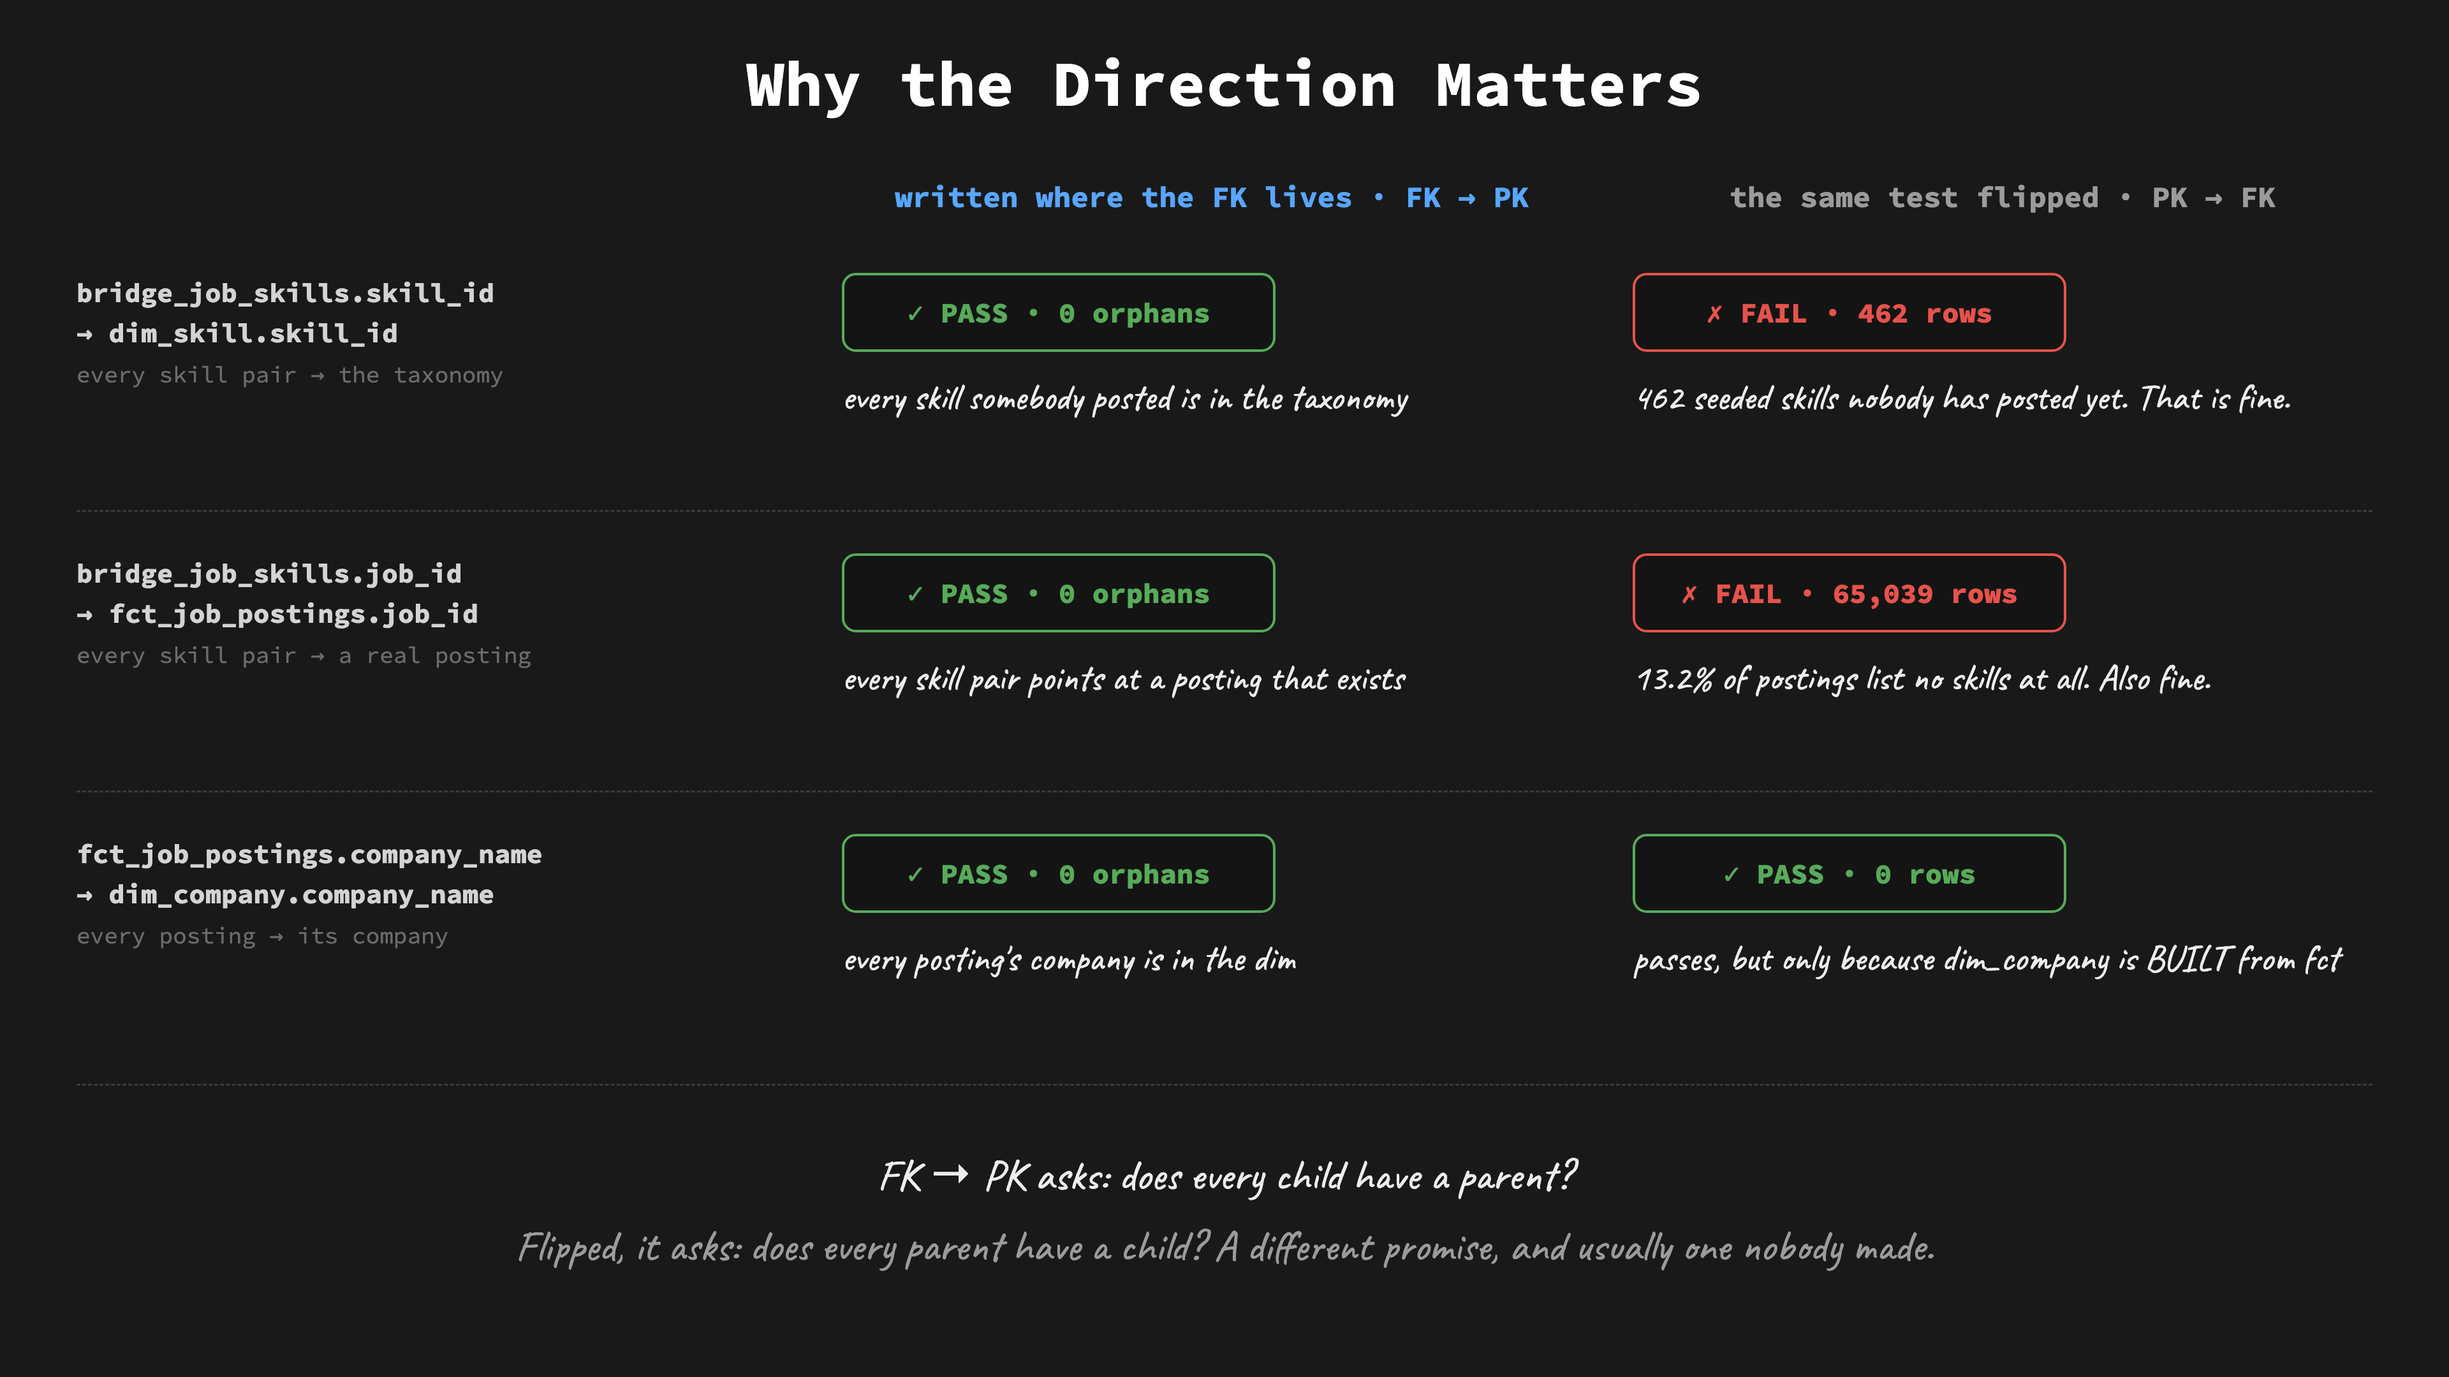
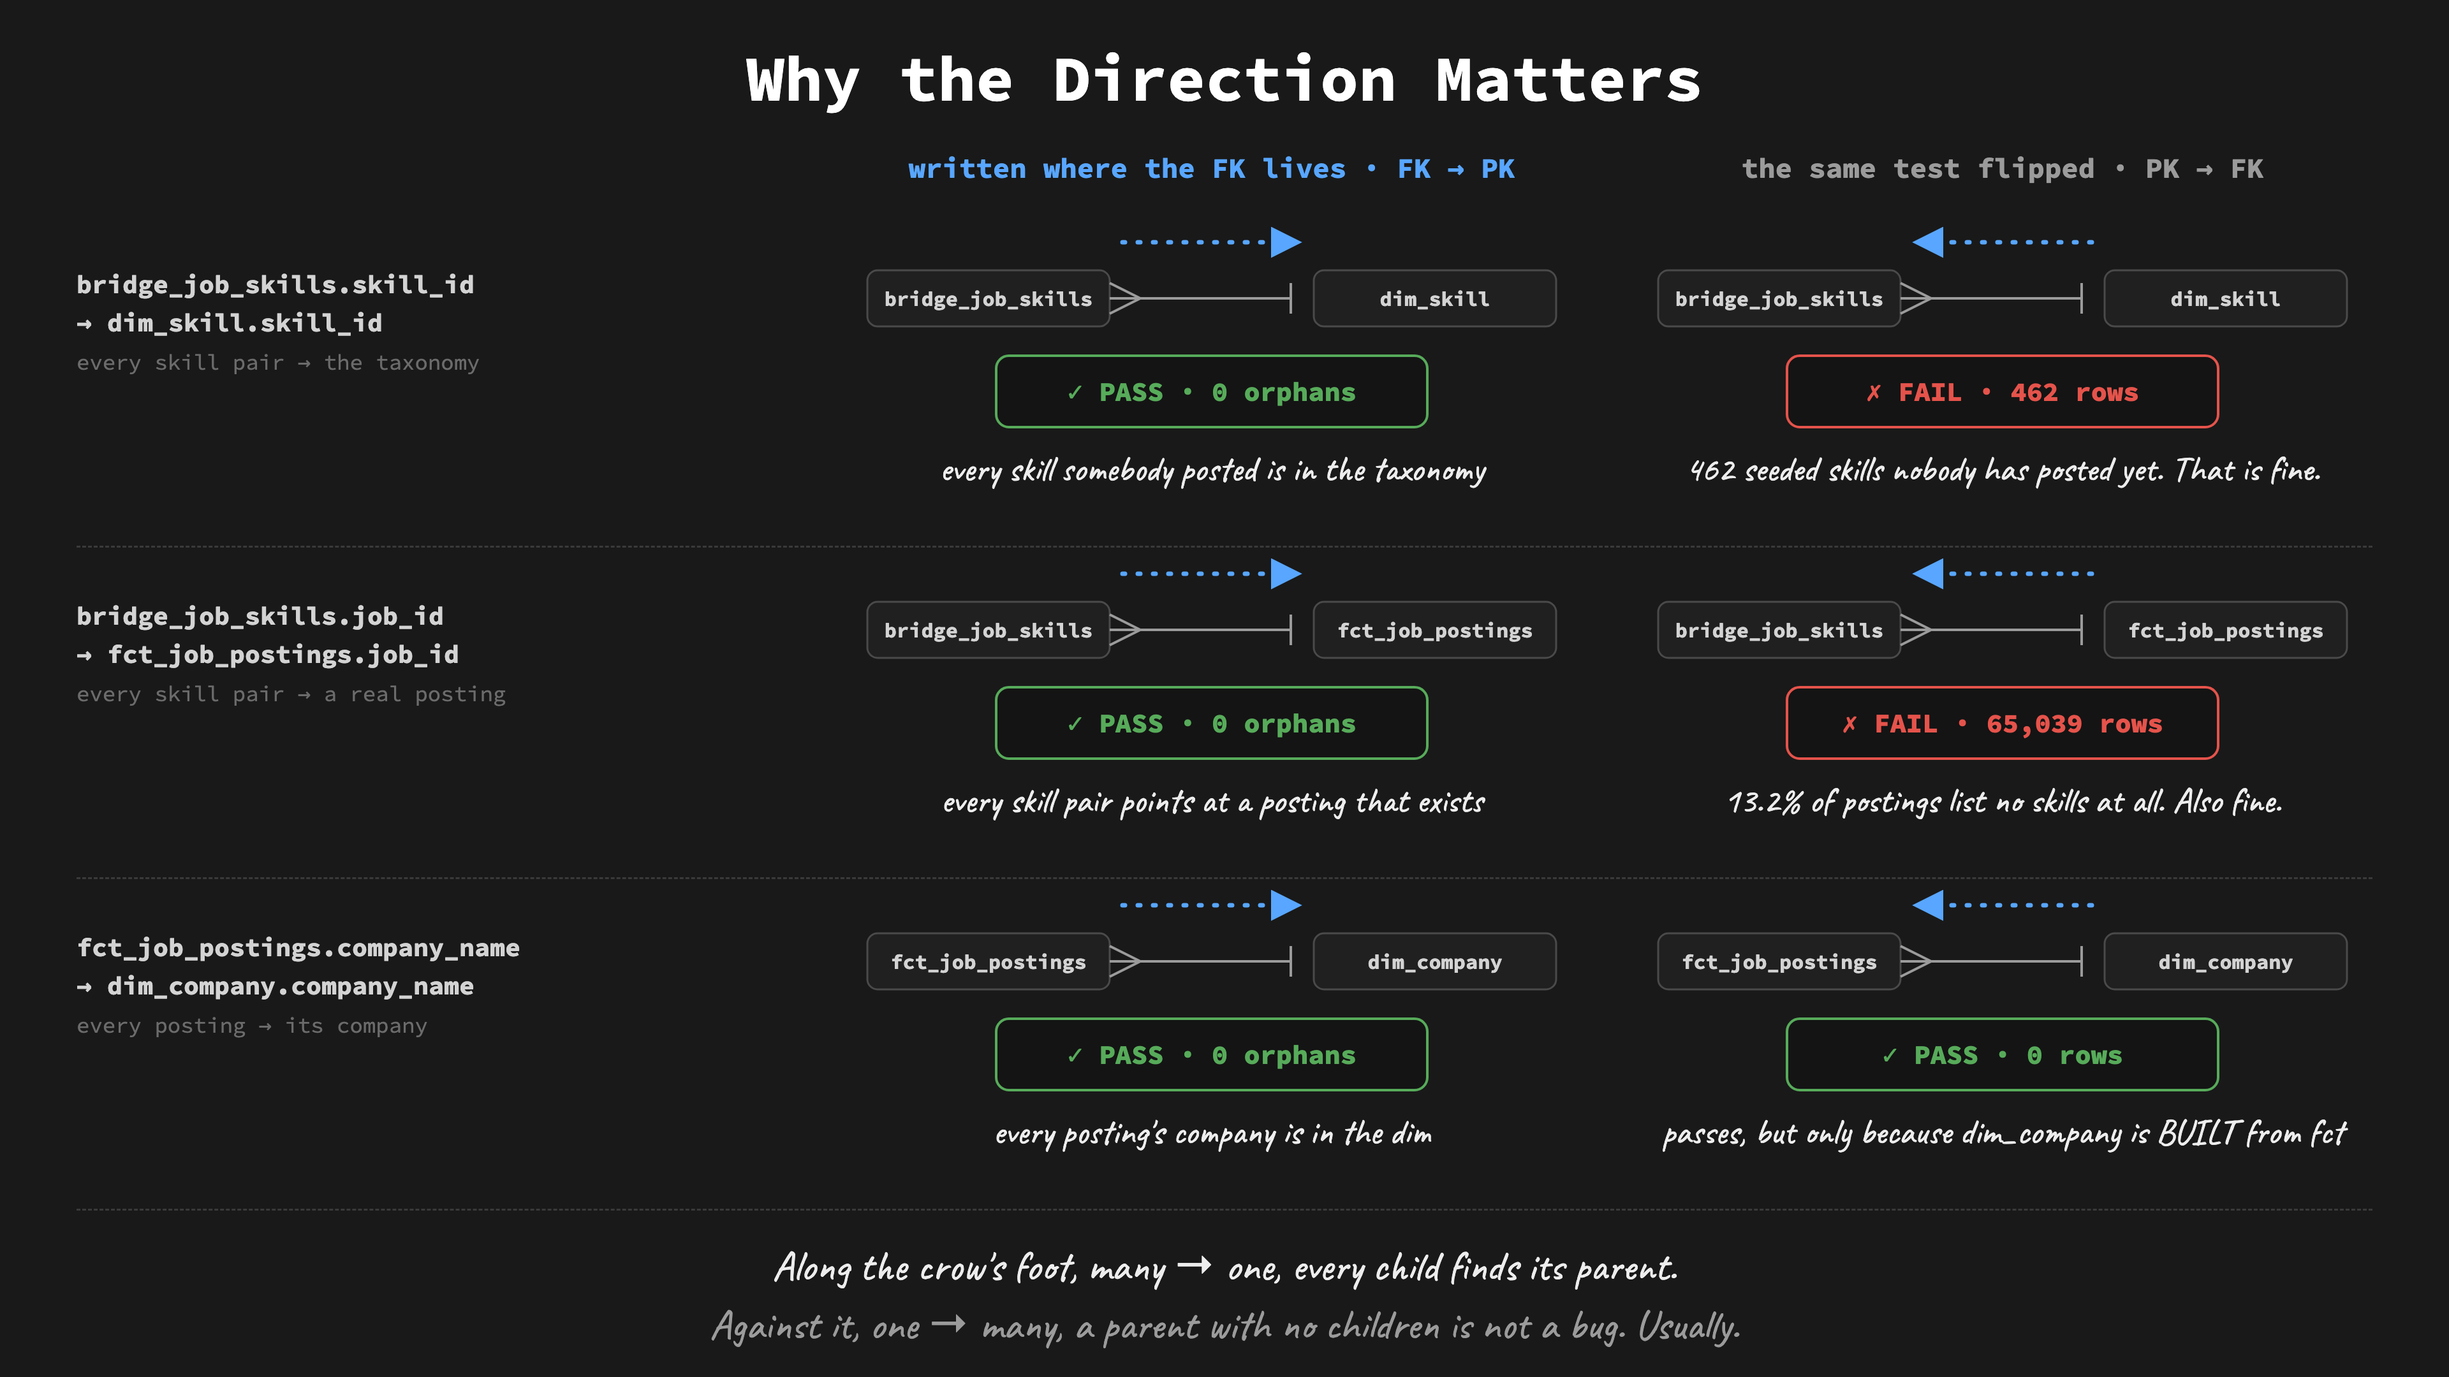
3.09_relationships_direction v2: mini ERDs with crow's feet and the test arrow (Luke)
Each cell now shows the two tables joined by a crow's-foot line (many on
the FK side, bar on the PK side) with a blue arrow above it: along the
crow's foot on the left, against it on the right. Same relationship,
arrow reversed, is the whole point.

diff --git a/resources/diagrams/3.09_relationships_direction.html b/resources/diagrams/3.09_relationships_direction.html
@@ -15,54 +15,51 @@
   }
   html,body{margin:0;padding:0;background:var(--bg)}
   .stage{position:relative;width:1920px;height:1080px;overflow:hidden;font-family:var(--hand);color:var(--ink);background:var(--bg)}
-  .title{position:absolute;top:34px;left:0;width:1920px;font-family:var(--mono);font-size:50px;font-weight:700;color:#FFFFFF;text-align:center}
-  .colh{position:absolute;top:140px;font-family:var(--mono);font-size:23px;font-weight:700;text-align:center}
-  .pair{position:absolute;font-family:var(--mono);font-size:21px;font-weight:700;color:var(--text);line-height:1.5}
-  .pair .sub{font-weight:400;color:var(--faint);font-size:18px}
-  .chip{position:absolute;box-sizing:border-box;height:62px;width:340px;border-radius:11px;background:#141414;display:flex;align-items:center;justify-content:center;font-family:var(--mono);font-size:22px;font-weight:800}
-  .why{position:absolute;font-family:var(--hand);font-size:29px;color:var(--ink);line-height:1.35}
+  .title{position:absolute;top:30px;left:0;width:1920px;font-family:var(--mono);font-size:50px;font-weight:700;color:#FFFFFF;text-align:center}
+  .colh{position:absolute;top:118px;font-family:var(--mono);font-size:22px;font-weight:700;text-align:center}
+  .pair{position:absolute;font-family:var(--mono);font-size:20px;font-weight:700;color:var(--text);line-height:1.5}
+  .pair .sub{font-weight:400;color:var(--faint);font-size:17px}
+  .chip{position:absolute;box-sizing:border-box;height:58px;width:340px;border-radius:11px;background:#141414;display:flex;align-items:center;justify-content:center;font-family:var(--mono);font-size:21px;font-weight:800}
+  .why{position:absolute;font-family:var(--hand);font-size:28px;color:var(--ink);line-height:1.3;text-align:center}
   .sep{position:absolute;left:60px;width:1800px;border-top:1.5px dashed #3a3a3a}
-  .rule{position:absolute;left:0;width:1920px;text-align:center;font-family:var(--hand);font-size:34px;color:var(--ink)}
+  .rule{position:absolute;left:0;width:1920px;text-align:center;font-family:var(--hand);font-size:33px;color:var(--ink)}
+  svg.art{position:absolute;inset:0;pointer-events:none}
 </style>
 </head>
 <body>
 <div class="stage">
-
   <div class="title">Why the Direction Matters</div>
-
   <div class="colh" style="left:660px;width:580px;color:var(--blue)">written where the FK lives  ·  FK → PK</div>
   <div class="colh" style="left:1280px;width:580px;color:var(--muted)">the same test flipped  ·  PK → FK</div>
-
-  <!-- row 1: skills -->
-  <div class="pair" style="left:60px;top:214px;width:560px">bridge_job_skills.skill_id<br>→ dim_skill.skill_id<br><span class="sub">every skill pair → the taxonomy</span></div>
-  <div class="chip" style="left:660px;top:214px;border:2px solid var(--ok);color:var(--ok)">✓ PASS · 0 orphans</div>
-  <div class="why" style="left:660px;top:292px;width:580px">every skill somebody posted is in the taxonomy</div>
-  <div class="chip" style="left:1280px;top:214px;border:2px solid var(--err);color:var(--err)">✗ FAIL · 462 rows</div>
-  <div class="why" style="left:1280px;top:292px;width:580px">462 seeded skills nobody has posted yet. That is fine.</div>
-
-  <div class="sep" style="top:400px"></div>
-
-  <!-- row 2: jobs -->
-  <div class="pair" style="left:60px;top:434px;width:560px">bridge_job_skills.job_id<br>→ fct_job_postings.job_id<br><span class="sub">every skill pair → a real posting</span></div>
-  <div class="chip" style="left:660px;top:434px;border:2px solid var(--ok);color:var(--ok)">✓ PASS · 0 orphans</div>
-  <div class="why" style="left:660px;top:512px;width:580px">every skill pair points at a posting that exists</div>
-  <div class="chip" style="left:1280px;top:434px;border:2px solid var(--err);color:var(--err)">✗ FAIL · 65,039 rows</div>
-  <div class="why" style="left:1280px;top:512px;width:580px">13.2% of postings list no skills at all. Also fine.</div>
-
-  <div class="sep" style="top:620px"></div>
-
-  <!-- row 3: companies -->
-  <div class="pair" style="left:60px;top:654px;width:560px">fct_job_postings.company_name<br>→ dim_company.company_name<br><span class="sub">every posting → its company</span></div>
-  <div class="chip" style="left:660px;top:654px;border:2px solid var(--ok);color:var(--ok)">✓ PASS · 0 orphans</div>
-  <div class="why" style="left:660px;top:732px;width:580px">every posting's company is in the dim</div>
-  <div class="chip" style="left:1280px;top:654px;border:2px solid var(--ok);color:var(--ok)">✓ PASS · 0 rows</div>
-  <div class="why" style="left:1280px;top:732px;width:580px">passes, but only because dim_company is BUILT from fct</div>
-
-  <div class="sep" style="top:850px"></div>
-
-  <div class="rule" style="top:900px">FK → PK asks: does every child have a parent?</div>
-  <div class="rule" style="top:956px;color:var(--muted)">Flipped, it asks: does every parent have a child? A different promise, and usually one nobody made.</div>
-
+  <div class="pair" style="left:60px;top:208px;width:560px">bridge_job_skills.skill_id<br>→ dim_skill.skill_id<br><span class="sub">every skill pair → the taxonomy</span></div>
+<div class="chip" style="left:780px;top:278px;border:2px solid var(--ok);color:var(--ok)">✓ PASS · 0 orphans</div>
+<div class="why" style="left:660px;top:350px;width:580px">every skill somebody posted is in the taxonomy</div>
+<div class="chip" style="left:1400px;top:278px;border:2px solid var(--err);color:var(--err)">✗ FAIL · 462 rows</div>
+<div class="why" style="left:1280px;top:350px;width:580px">462 seeded skills nobody has posted yet. That is fine.</div>
+<div class="sep" style="top:428px"></div>
+<div class="pair" style="left:60px;top:468px;width:560px">bridge_job_skills.job_id<br>→ fct_job_postings.job_id<br><span class="sub">every skill pair → a real posting</span></div>
+<div class="chip" style="left:780px;top:538px;border:2px solid var(--ok);color:var(--ok)">✓ PASS · 0 orphans</div>
+<div class="why" style="left:660px;top:610px;width:580px">every skill pair points at a posting that exists</div>
+<div class="chip" style="left:1400px;top:538px;border:2px solid var(--err);color:var(--err)">✗ FAIL · 65,039 rows</div>
+<div class="why" style="left:1280px;top:610px;width:580px">13.2% of postings list no skills at all. Also fine.</div>
+<div class="sep" style="top:688px"></div>
+<div class="pair" style="left:60px;top:728px;width:560px">fct_job_postings.company_name<br>→ dim_company.company_name<br><span class="sub">every posting → its company</span></div>
+<div class="chip" style="left:780px;top:798px;border:2px solid var(--ok);color:var(--ok)">✓ PASS · 0 orphans</div>
+<div class="why" style="left:660px;top:870px;width:580px">every posting's company is in the dim</div>
+<div class="chip" style="left:1400px;top:798px;border:2px solid var(--ok);color:var(--ok)">✓ PASS · 0 rows</div>
+<div class="why" style="left:1280px;top:870px;width:580px">passes, but only because dim_company is BUILT from fct</div>
+  <div class="sep" style="top:948px"></div>
+  <div class="rule" style="top:972px">Along the crow's foot, many → one, every child finds its parent.</div>
+  <div class="rule" style="top:1018px;color:var(--muted)">Against it, one → many, a parent with no children is not a bug. Usually.</div>
+  <svg class="art" viewBox="0 0 1920 1080">
+    <defs><marker id="ab" viewBox="0 0 10 10" refX="8" refY="5" markerWidth="7" markerHeight="7" orient="auto-start-reverse"><path d="M 0 0 L 10 5 L 0 10 z" fill="#58A6FF"/></marker></defs>
+    <rect x="680" y="212" width="190" height="44" rx="8" fill="#202020" stroke="#4a4a4a" stroke-width="1.5"/><text x="775.0" y="240" text-anchor="middle" font-family="Source Code Pro,monospace" font-size="16" font-weight="700" fill="#D3D3D3">bridge_job_skills</text><rect x="1030" y="212" width="190" height="44" rx="8" fill="#202020" stroke="#4a4a4a" stroke-width="1.5"/><text x="1125.0" y="240" text-anchor="middle" font-family="Source Code Pro,monospace" font-size="16" font-weight="700" fill="#D3D3D3">dim_skill</text><line x1="894" y1="234" x2="1012" y2="234" stroke="#9B9B9B" stroke-width="2"/><line x1="894" y1="234" x2="870" y2="222" stroke="#9B9B9B" stroke-width="2"/><line x1="894" y1="234" x2="870" y2="234" stroke="#9B9B9B" stroke-width="2"/><line x1="894" y1="234" x2="870" y2="246" stroke="#9B9B9B" stroke-width="2"/><line x1="1012" y1="222" x2="1012" y2="246" stroke="#9B9B9B" stroke-width="2"/><line x1="880" y1="190" x2="1016" y2="190" stroke="#58A6FF" stroke-width="3.5" stroke-dasharray="2 10" stroke-linecap="round" marker-end="url(#ab)"/>
+<rect x="1300" y="212" width="190" height="44" rx="8" fill="#202020" stroke="#4a4a4a" stroke-width="1.5"/><text x="1395.0" y="240" text-anchor="middle" font-family="Source Code Pro,monospace" font-size="16" font-weight="700" fill="#D3D3D3">bridge_job_skills</text><rect x="1650" y="212" width="190" height="44" rx="8" fill="#202020" stroke="#4a4a4a" stroke-width="1.5"/><text x="1745.0" y="240" text-anchor="middle" font-family="Source Code Pro,monospace" font-size="16" font-weight="700" fill="#D3D3D3">dim_skill</text><line x1="1514" y1="234" x2="1632" y2="234" stroke="#9B9B9B" stroke-width="2"/><line x1="1514" y1="234" x2="1490" y2="222" stroke="#9B9B9B" stroke-width="2"/><line x1="1514" y1="234" x2="1490" y2="234" stroke="#9B9B9B" stroke-width="2"/><line x1="1514" y1="234" x2="1490" y2="246" stroke="#9B9B9B" stroke-width="2"/><line x1="1632" y1="222" x2="1632" y2="246" stroke="#9B9B9B" stroke-width="2"/><line x1="1640" y1="190" x2="1504" y2="190" stroke="#58A6FF" stroke-width="3.5" stroke-dasharray="2 10" stroke-linecap="round" marker-end="url(#ab)"/>
+<rect x="680" y="472" width="190" height="44" rx="8" fill="#202020" stroke="#4a4a4a" stroke-width="1.5"/><text x="775.0" y="500" text-anchor="middle" font-family="Source Code Pro,monospace" font-size="16" font-weight="700" fill="#D3D3D3">bridge_job_skills</text><rect x="1030" y="472" width="190" height="44" rx="8" fill="#202020" stroke="#4a4a4a" stroke-width="1.5"/><text x="1125.0" y="500" text-anchor="middle" font-family="Source Code Pro,monospace" font-size="16" font-weight="700" fill="#D3D3D3">fct_job_postings</text><line x1="894" y1="494" x2="1012" y2="494" stroke="#9B9B9B" stroke-width="2"/><line x1="894" y1="494" x2="870" y2="482" stroke="#9B9B9B" stroke-width="2"/><line x1="894" y1="494" x2="870" y2="494" stroke="#9B9B9B" stroke-width="2"/><line x1="894" y1="494" x2="870" y2="506" stroke="#9B9B9B" stroke-width="2"/><line x1="1012" y1="482" x2="1012" y2="506" stroke="#9B9B9B" stroke-width="2"/><line x1="880" y1="450" x2="1016" y2="450" stroke="#58A6FF" stroke-width="3.5" stroke-dasharray="2 10" stroke-linecap="round" marker-end="url(#ab)"/>
+<rect x="1300" y="472" width="190" height="44" rx="8" fill="#202020" stroke="#4a4a4a" stroke-width="1.5"/><text x="1395.0" y="500" text-anchor="middle" font-family="Source Code Pro,monospace" font-size="16" font-weight="700" fill="#D3D3D3">bridge_job_skills</text><rect x="1650" y="472" width="190" height="44" rx="8" fill="#202020" stroke="#4a4a4a" stroke-width="1.5"/><text x="1745.0" y="500" text-anchor="middle" font-family="Source Code Pro,monospace" font-size="16" font-weight="700" fill="#D3D3D3">fct_job_postings</text><line x1="1514" y1="494" x2="1632" y2="494" stroke="#9B9B9B" stroke-width="2"/><line x1="1514" y1="494" x2="1490" y2="482" stroke="#9B9B9B" stroke-width="2"/><line x1="1514" y1="494" x2="1490" y2="494" stroke="#9B9B9B" stroke-width="2"/><line x1="1514" y1="494" x2="1490" y2="506" stroke="#9B9B9B" stroke-width="2"/><line x1="1632" y1="482" x2="1632" y2="506" stroke="#9B9B9B" stroke-width="2"/><line x1="1640" y1="450" x2="1504" y2="450" stroke="#58A6FF" stroke-width="3.5" stroke-dasharray="2 10" stroke-linecap="round" marker-end="url(#ab)"/>
+<rect x="680" y="732" width="190" height="44" rx="8" fill="#202020" stroke="#4a4a4a" stroke-width="1.5"/><text x="775.0" y="760" text-anchor="middle" font-family="Source Code Pro,monospace" font-size="16" font-weight="700" fill="#D3D3D3">fct_job_postings</text><rect x="1030" y="732" width="190" height="44" rx="8" fill="#202020" stroke="#4a4a4a" stroke-width="1.5"/><text x="1125.0" y="760" text-anchor="middle" font-family="Source Code Pro,monospace" font-size="16" font-weight="700" fill="#D3D3D3">dim_company</text><line x1="894" y1="754" x2="1012" y2="754" stroke="#9B9B9B" stroke-width="2"/><line x1="894" y1="754" x2="870" y2="742" stroke="#9B9B9B" stroke-width="2"/><line x1="894" y1="754" x2="870" y2="754" stroke="#9B9B9B" stroke-width="2"/><line x1="894" y1="754" x2="870" y2="766" stroke="#9B9B9B" stroke-width="2"/><line x1="1012" y1="742" x2="1012" y2="766" stroke="#9B9B9B" stroke-width="2"/><line x1="880" y1="710" x2="1016" y2="710" stroke="#58A6FF" stroke-width="3.5" stroke-dasharray="2 10" stroke-linecap="round" marker-end="url(#ab)"/>
+<rect x="1300" y="732" width="190" height="44" rx="8" fill="#202020" stroke="#4a4a4a" stroke-width="1.5"/><text x="1395.0" y="760" text-anchor="middle" font-family="Source Code Pro,monospace" font-size="16" font-weight="700" fill="#D3D3D3">fct_job_postings</text><rect x="1650" y="732" width="190" height="44" rx="8" fill="#202020" stroke="#4a4a4a" stroke-width="1.5"/><text x="1745.0" y="760" text-anchor="middle" font-family="Source Code Pro,monospace" font-size="16" font-weight="700" fill="#D3D3D3">dim_company</text><line x1="1514" y1="754" x2="1632" y2="754" stroke="#9B9B9B" stroke-width="2"/><line x1="1514" y1="754" x2="1490" y2="742" stroke="#9B9B9B" stroke-width="2"/><line x1="1514" y1="754" x2="1490" y2="754" stroke="#9B9B9B" stroke-width="2"/><line x1="1514" y1="754" x2="1490" y2="766" stroke="#9B9B9B" stroke-width="2"/><line x1="1632" y1="742" x2="1632" y2="766" stroke="#9B9B9B" stroke-width="2"/><line x1="1640" y1="710" x2="1504" y2="710" stroke="#58A6FF" stroke-width="3.5" stroke-dasharray="2 10" stroke-linecap="round" marker-end="url(#ab)"/>
+  </svg>
 </div>
 </body>
 </html>
